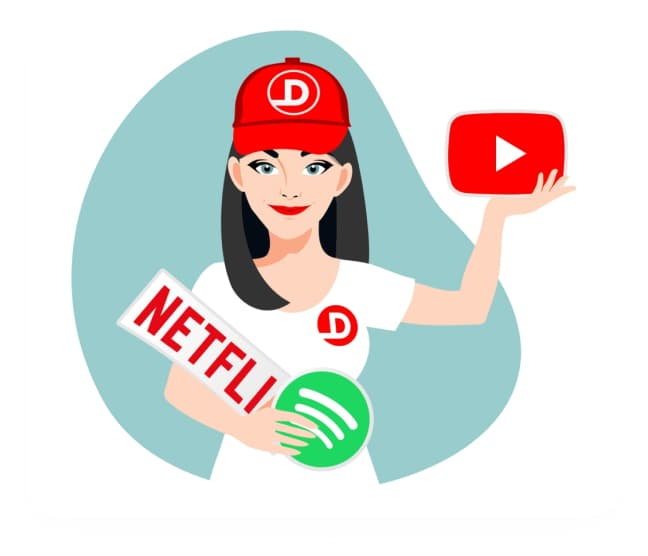
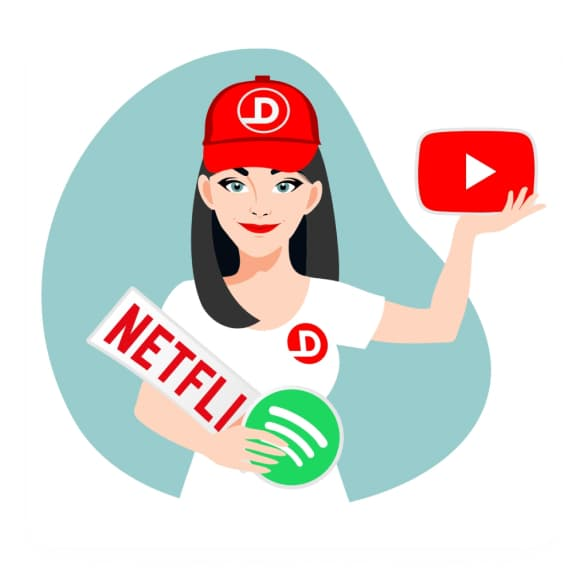
add apaptive for main

diff --git a/css/style.min.css b/css/style.min.css
@@ -1,1 +1,1 @@
-@import"https://fonts.googleapis.com/css2?family=IBM+Plex+Sans:wght@400;600&family=Inter:wght@400;500;600&family=Manrope:wght@600&family=Montserrat:wght@500;700&display=swap";@font-face{font-family:"gothampro_medium";src:local("gothampro_medium");src:local("gothampro-medium");src:url("./app/fonts/gothampro_medium.woff2") format("woff2");src:url("./app/fonts/gothampro_medium.woff") format("woff");font-style:normal}@font-face{font-family:"gothampro_black";src:local("gothampro_black");src:local("gothampro-black");src:url("./app/fonts/gothampro_black.woff2") format("woff2");src:url("./app/fonts/gothampro_black.woff") format("woff");font-style:normal}@font-face{font-family:"gothampro_bold";src:local("gothampro_bold");src:local("gothampro-bold");src:url("./../fonts/gothampro_bold.woff2") format("woff2");src:url("./../fonts/gothampro_bold.woff") format("woff");font-style:normal}@font-face{font-family:"gothampro_light";src:local("gothampro_light");src:local("gothampro-light");src:url("./../fonts/gothampro_light.woff2") format("woff2");src:url("./../fonts/gothampro_light.woff") format("woff");font-style:normal}@font-face{font-family:"gothampro";src:local("gothamPro");src:url("./../fonts/gothampro.woff2") format("woff2");src:url("./../fonts/gothampro.woff") format("woff");font-style:normal}*{-webkit-box-sizing:border-box;box-sizing:border-box}*:focus{outline:0}body{margin:0;padding:0;max-width:100%;overflow-x:hidden}img{max-width:100%;display:block}a{text-decoration:none;color:inherit;outline:0}fieldset,legend{padding:0;margin:0}ul{list-style:none;margin:0;padding:0}li{margin:0;padding:0}h1,h2,h3,h4,h5,h6{margin:0;font-size:inherit;font-weight:inherit;-webkit-margin-before:0;margin-block-start:0;-webkit-margin-after:0;margin-block-end:0}p{margin:0}dl,dd,dt{margin:0;padding:0}button,input,optgroup,select,textarea{color:inherit;font:inherit;margin:0;padding:0;outline:0;border:0;background-color:rgba(0,0,0,0);cursor:pointer}button,a{-webkit-user-select:none;-moz-user-select:none;-ms-user-select:none;user-select:none}.Xcontainer{margin:0 auto;padding:0 15px;max-width:1230px}.Xviewport{margin:0 auto;padding:0 0px;max-width:0px}html,body{max-width:100%;overflow-x:hidden;background-color:#ecf3fb;font-family:"gothampro",sans-serif;font-weight:400;font-size:16px;line-height:1.5;color:#000}.btn-blue{text-align:center;vertical-align:middle;font-weight:700;font-size:17px;line-height:1.2941176471;color:#fff;border:1px solid rgba(0,0,0,0);background-color:#1749b3;-webkit-transition:background-color,border,color .1s;-o-transition:background-color,border,color .1s;transition:background-color,border,color .1s}.btn-blue:hover{background-color:rgba(0,0,0,0);border:1px solid #1749b3;color:#000}.btn-blue:active{background-color:#4b84fd;color:#fff;border-color:rgba(0,0,0,0)}.text-link-black{-webkit-transition:color .1s;-o-transition:color .1s;transition:color .1s;color:#000}.text-link-black:hover{color:#1749b3}.text-link-black:active{color:#4b84fd}.text-link-blue{-webkit-transition:color .1s;-o-transition:color .1s;transition:color .1s;color:#1749b3}.text-link-blue:hover{color:#000}.text-link-blue:active{color:#4b84fd}.icon{-webkit-transition:fill .1s;-o-transition:fill .1s;transition:fill .1s}.icon:hover svg path{fill:#1749b3}.icon:active svg path{fill:#4b84fd}h1{font-size:36px;font-family:"gothampro_bold",sans-serif;font-weight:700;line-height:140%;color:#fff}h2{font-family:"gothampro_bold",sans-serif;font-size:32px;line-height:140%;color:#171717}.header{background-color:#fff;padding-top:2px;padding-bottom:3px;position:relative;z-index:2}.header-container{display:-ms-grid;display:grid;-ms-grid-columns:minmax(-webkit-max-content, 325px) minmax(-webkit-max-content, 521px) minmax(-webkit-max-content, 79px) minmax(-webkit-max-content, 59px) -webkit-max-content;-ms-grid-columns:minmax(max-content, 325px) minmax(max-content, 521px) minmax(max-content, 79px) minmax(max-content, 59px) max-content;grid-template-columns:minmax(-webkit-max-content, 325px) minmax(-webkit-max-content, 521px) minmax(-webkit-max-content, 79px) minmax(-webkit-max-content, 59px) -webkit-max-content;grid-template-columns:minmax(max-content, 325px) minmax(max-content, 521px) minmax(max-content, 79px) minmax(max-content, 59px) max-content;-webkit-box-align:center;-ms-flex-align:center;align-items:center;gap:20px}.header-logo{display:-webkit-box;display:-ms-flexbox;display:flex;-webkit-box-align:center;-ms-flex-align:center;align-items:center;-ms-flex-negative:0;flex-shrink:0}.header-logo__title{font-family:"Manrope",sans-serif;color:#171717;font-weight:600;font-size:16px;line-height:1.3125;margin-left:8px}.header-nav{display:-webkit-box;display:-ms-flexbox;display:flex;-webkit-box-align:center;-ms-flex-align:center;align-items:center}.header-nav__menu{position:relative;display:-ms-grid;display:grid;-ms-grid-columns:minmax(-webkit-max-content, 157px) minmax(-webkit-max-content, 60px) minmax(-webkit-max-content, 93px) minmax(-webkit-max-content, 75px);-ms-grid-columns:minmax(max-content, 157px) minmax(max-content, 60px) minmax(max-content, 93px) minmax(max-content, 75px);grid-template-columns:minmax(-webkit-max-content, 157px) minmax(-webkit-max-content, 60px) minmax(-webkit-max-content, 93px) minmax(-webkit-max-content, 75px);grid-template-columns:minmax(max-content, 157px) minmax(max-content, 60px) minmax(max-content, 93px) minmax(max-content, 75px);-ms-flex-negative:1;flex-shrink:1;-webkit-box-align:center;-ms-flex-align:center;align-items:center;gap:20px}.header-nav__menu-item{text-align:left;position:relative}.header-nav__menu-item-list{padding-right:25px}.header-nav__menu-icon{padding-left:15px;position:absolute;display:inline-block;top:-3px;-webkit-transition:-webkit-transform .1s;transition:-webkit-transform .1s;-o-transition:transform .1s;transition:transform .1s;transition:transform .1s, -webkit-transform .1s}.header-nav__menu-icon--reverse svg{-webkit-transform:rotate(180deg);-ms-transform:rotate(180deg);transform:rotate(180deg)}.header-nav__subscription-list{padding:27px 24px 24px;position:absolute;top:47px;left:-23px;-webkit-box-shadow:0px 20px 48px rgba(177,177,177,.4);box-shadow:0px 20px 48px rgba(177,177,177,.4);border-radius:16px;background-color:#fff;visibility:hidden;opacity:0;-webkit-transition:visibility,opacity .1s;-o-transition:visibility,opacity .1s;transition:visibility,opacity .1s}.header-nav__subscription-list--visible{visibility:visible;opacity:1}.header-nav__subscription-item{font-family:"gothampro",sans-serif;font-weight:600;font-size:17px;line-height:150%;letter-spacing:.01em}.header-nav__subscription-item:not(:last-child){margin-bottom:20px}.header-nav__socials{display:-webkit-box;display:-ms-flexbox;display:flex;-webkit-box-align:center;-ms-flex-align:center;align-items:center;gap:15px}.header-nav__socials-item{display:-webkit-box;display:-ms-flexbox;display:flex;-webkit-box-align:center;-ms-flex-align:center;align-items:center}.header-nav__lang{padding-right:25px;position:relative}.header-nav__lang-icon{padding-left:7px;position:absolute;display:inline-block;top:-4px}.header-nav__lang-icon--reverse svg{-webkit-transform:rotate(180deg);-ms-transform:rotate(180deg);transform:rotate(180deg)}.header-nav__lang-list{position:absolute;padding:27px 24px 24px;background-color:#fff;top:50px;-webkit-box-shadow:0px 20px 48px rgba(177,177,177,.4);box-shadow:0px 20px 48px rgba(177,177,177,.4);border-radius:16px;visibility:hidden;opacity:0;-webkit-transition:visibility,opacity .1s;-o-transition:visibility,opacity .1s;transition:visibility,opacity .1s}.header-nav__lang-list--visible{visibility:visible;opacity:1}.header-nav__lang-list-item{font-family:"gothampro",sans-serif;font-weight:600;font-size:17px;line-height:150%;letter-spacing:.01em}.header-nav__lang-list-item:not(:last-child){margin-bottom:20px}.header-nav__btn{width:8em;height:2.35em;border-radius:.7em}.header__login{position:fixed;width:100%;height:100%;background:rgba(23,73,179,.1);-webkit-backdrop-filter:blur(5px);backdrop-filter:blur(5px);top:0;left:0;opacity:0;visibility:hidden}.header__login--visible{visibility:visible;opacity:1}.header__login-wrapper{display:-webkit-box;display:-ms-flexbox;display:flex;-webkit-box-pack:center;-ms-flex-pack:center;justify-content:center;padding-top:33px}.header__login-content{max-width:540px;padding:40px;background-color:#fff;border-radius:32px;-webkit-box-flex:1;-ms-flex-positive:1;flex-grow:1}.header-login-input-img{position:absolute}.header-login__top{display:-webkit-box;display:-ms-flexbox;display:flex;-webkit-box-align:center;-ms-flex-align:center;align-items:center;-webkit-box-pack:justify;-ms-flex-pack:justify;justify-content:space-between;margin-bottom:12px}.header-login__top-btn{width:40px;height:40px;background:rgba(23,23,23,.1);border-radius:100%;display:-webkit-box;display:-ms-flexbox;display:flex;-webkit-box-align:center;-ms-flex-align:center;align-items:center;-webkit-box-pack:center;-ms-flex-pack:center;justify-content:center;-webkit-transition:background-color,fill,.1s;-o-transition:background-color,fill,.1s;transition:background-color,fill,.1s}.header-login__top-btn:hover{background-color:#1749b3}.header-login__top-btn:hover svg path{fill:#fff}.header-login__top-btn:active{background-color:rgba(75,132,253,.1)}.header-login__top-btn:active svg path{fill:#3a3a3c}.header-login__new-user{margin-bottom:40px}.header-login__new-user-link{color:#1749b3;text-decoration:underline}.header-login__form-bottom{display:-webkit-box;display:-ms-flexbox;display:flex;-webkit-box-align:center;-ms-flex-align:center;align-items:center;-webkit-box-pack:justify;-ms-flex-pack:justify;justify-content:space-between;margin-bottom:40px}.header-login__form-btn{padding:15px 46px;border-radius:12px}.header-login__label{position:relative}.header-login__input{width:100%;padding:16px 24px;background:#f1f4f8;border-radius:12px;margin-top:9px;display:block;margin-bottom:32px;border:1px solid rgba(0,0,0,0);color:#070033}.header-login__input:hover{cursor:text;border:1px solid #838099}.header-login__input:focus::-webkit-input-placeholder{color:rgba(0,0,0,0)}.header-login__input:focus::-moz-placeholder{color:rgba(0,0,0,0)}.header-login__input:focus:-ms-input-placeholder{color:rgba(0,0,0,0)}.header-login__input:focus::-ms-input-placeholder{color:rgba(0,0,0,0)}.header-login__input:focus::placeholder{color:rgba(0,0,0,0)}.header-login__input:focus{border:1px solid #cecbdf}.header-login__input:invalid{border:1px solid rgba(0,0,0,0);background-image:url(./../img/alert.svg);background-repeat:no-repeat;background-position:center right 25px}.header-login__input:invalid:focus{border:1px solid #fd4646;background-image:url(./../img/alert.svg);background-repeat:no-repeat;background-position:center right 25px}.header-login__signin{display:-webkit-box;display:-ms-flexbox;display:flex;-webkit-box-pack:center;-ms-flex-pack:center;justify-content:center}.header-login__signin-text{font-size:16px;line-height:1.5;color:#909090;position:relative;margin-bottom:24px}.header-login__signin-text::before{content:"";position:absolute;width:160px;height:1px;background-color:#dfdfdf;top:50%;left:-172px}.header-login__signin-text::after{content:"";position:absolute;width:160px;height:1px;background-color:#dfdfdf;top:50%;right:-172px}.header-login__signin-list{display:-ms-grid;display:grid;-ms-grid-columns:147px 147px 147px;grid-template-columns:147px 147px 147px;gap:9px;justify-items:center;-webkit-box-align:center;-ms-flex-align:center;align-items:center;margin-bottom:48px}.header-login__signin-item{display:-webkit-box;display:-ms-flexbox;display:flex;-webkit-box-align:center;-ms-flex-align:center;align-items:center;-webkit-box-pack:center;-ms-flex-pack:center;justify-content:center;width:100%;height:70px;border:1px solid #dfdfdf;border-radius:12px;-webkit-transition:border,background-color .2s;-o-transition:border,background-color .2s;transition:border,background-color .2s}.header-login__signin-item:hover{border:1px solid rgba(0,0,0,0);background-color:#ecf3fb}.header-login__signin-item:active{border:1px solid #dfdfdf;background-color:rgba(0,0,0,0)}.header-login__disclaimer{color:#9c99ad}.main{padding:60px 0;position:relative;z-index:1}.main__content{display:-webkit-box;display:-ms-flexbox;display:flex;-webkit-box-align:stretch;-ms-flex-align:stretch;align-items:stretch;gap:16px}.main__text-block{border-radius:32px;background-color:#1749b3;padding:111px 60px 113px;width:50%;min-height:100%}.main__text-title{margin-bottom:25px}.main__text-text{font-size:16px;line-height:150%;color:#fff;margin-bottom:48px}.main__text-btn{display:block;max-width:-webkit-max-content;max-width:-moz-max-content;max-width:max-content;background-color:#fff;color:#171717;border-radius:16px;font-size:17px;line-height:130%;font-weight:700;padding:15px 57px;border:1px solid rgba(0,0,0,0);-webkit-transition:background-color,border,color .1s;-o-transition:background-color,border,color .1s;transition:background-color,border,color .1s}.main__text-btn:hover{background-color:rgba(0,0,0,0);border:1px solid #fff;color:#fff}.main__text-btn:active{color:#171717;background-color:rgba(255,255,255,.8);border:1px solid rgba(255,255,255,.8)}.main__picture-block{border-radius:32px;width:50%;position:relative;overflow:hidden}.main__picture-img{border-radius:32px;width:100%;-webkit-box-shadow:0px 12px 28px rgba(244,245,245,.2);box-shadow:0px 12px 28px rgba(244,245,245,.2);position:absolute;top:9px;-webkit-transform:scale(1.1);-ms-transform:scale(1.1);transform:scale(1.1)}
+@import"https://fonts.googleapis.com/css2?family=IBM+Plex+Sans:wght@400;600&family=Inter:wght@400;500;600&family=Manrope:wght@600&family=Montserrat:wght@500;700&display=swap";@font-face{font-family:"gothampro_medium";src:local("gothampro_medium");src:local("gothampro-medium");src:url("./app/fonts/gothampro_medium.woff2") format("woff2");src:url("./app/fonts/gothampro_medium.woff") format("woff");font-style:normal}@font-face{font-family:"gothampro_black";src:local("gothampro_black");src:local("gothampro-black");src:url("./app/fonts/gothampro_black.woff2") format("woff2");src:url("./app/fonts/gothampro_black.woff") format("woff");font-style:normal}@font-face{font-family:"gothampro_bold";src:local("gothampro_bold");src:local("gothampro-bold");src:url("./../fonts/gothampro_bold.woff2") format("woff2");src:url("./../fonts/gothampro_bold.woff") format("woff");font-style:normal}@font-face{font-family:"gothampro_light";src:local("gothampro_light");src:local("gothampro-light");src:url("./../fonts/gothampro_light.woff2") format("woff2");src:url("./../fonts/gothampro_light.woff") format("woff");font-style:normal}@font-face{font-family:"gothampro";src:local("gothamPro");src:url("./../fonts/gothampro.woff2") format("woff2");src:url("./../fonts/gothampro.woff") format("woff");font-style:normal}*{-webkit-box-sizing:border-box;box-sizing:border-box}*:focus{outline:0}body{margin:0;padding:0;max-width:100%;overflow-x:hidden}img{max-width:100%;display:block}a{text-decoration:none;color:inherit;outline:0}fieldset,legend{padding:0;margin:0}ul{list-style:none;margin:0;padding:0}li{margin:0;padding:0}h1,h2,h3,h4,h5,h6{margin:0;font-size:inherit;font-weight:inherit;-webkit-margin-before:0;margin-block-start:0;-webkit-margin-after:0;margin-block-end:0}p{margin:0}dl,dd,dt{margin:0;padding:0}button,input,optgroup,select,textarea{color:inherit;font:inherit;margin:0;padding:0;outline:0;border:0;background-color:rgba(0,0,0,0);cursor:pointer}button,a{-webkit-user-select:none;-moz-user-select:none;-ms-user-select:none;user-select:none}.Xcontainer{margin:0 auto;padding:0 15px;max-width:1230px}.Xviewport{margin:0 auto;padding:0 0px;max-width:1440px}html,body{max-width:100%;overflow-x:hidden;background-color:#ecf3fb;font-family:"gothampro",sans-serif;font-weight:400;font-size:16px;line-height:1.5;color:#000}.btn-blue{text-align:center;vertical-align:middle;font-weight:700;font-size:17px;line-height:1.2941176471;color:#fff;border:1px solid rgba(0,0,0,0);background-color:#1749b3;-webkit-transition:background-color,border,color .1s;-o-transition:background-color,border,color .1s;transition:background-color,border,color .1s}.btn-blue:hover{background-color:rgba(0,0,0,0);border:1px solid #1749b3;color:#000}.btn-blue:active{background-color:#4b84fd;color:#fff;border-color:rgba(0,0,0,0)}.text-link-black{-webkit-transition:color .1s;-o-transition:color .1s;transition:color .1s;color:#000}.text-link-black:hover{color:#1749b3}.text-link-black:active{color:#4b84fd}.text-link-blue{-webkit-transition:color .1s;-o-transition:color .1s;transition:color .1s;color:#1749b3}.text-link-blue:hover{color:#000}.text-link-blue:active{color:#4b84fd}.icon{-webkit-transition:fill .1s;-o-transition:fill .1s;transition:fill .1s}.icon:hover svg path{fill:#1749b3}.icon:active svg path{fill:#4b84fd}h1{font-size:36px;font-family:"gothampro_bold",sans-serif;font-weight:700;line-height:140%;color:#fff}h2{font-family:"gothampro_bold",sans-serif;font-size:32px;line-height:140%;color:#171717}.header{background-color:#fff;padding-top:2px;padding-bottom:3px;position:relative;z-index:2}.header-container{display:-ms-grid;display:grid;-ms-grid-columns:minmax(-webkit-max-content, 325px) minmax(-webkit-max-content, 521px) minmax(-webkit-max-content, 79px) minmax(-webkit-max-content, 59px) -webkit-max-content;-ms-grid-columns:minmax(max-content, 325px) minmax(max-content, 521px) minmax(max-content, 79px) minmax(max-content, 59px) max-content;grid-template-columns:minmax(-webkit-max-content, 325px) minmax(-webkit-max-content, 521px) minmax(-webkit-max-content, 79px) minmax(-webkit-max-content, 59px) -webkit-max-content;grid-template-columns:minmax(max-content, 325px) minmax(max-content, 521px) minmax(max-content, 79px) minmax(max-content, 59px) max-content;-webkit-box-align:center;-ms-flex-align:center;align-items:center;gap:20px}.header-logo{display:-webkit-box;display:-ms-flexbox;display:flex;-webkit-box-align:center;-ms-flex-align:center;align-items:center;-ms-flex-negative:0;flex-shrink:0}.header-logo__title{font-family:"Manrope",sans-serif;color:#171717;font-weight:600;font-size:16px;line-height:1.3125;margin-left:8px}.header-nav{display:-webkit-box;display:-ms-flexbox;display:flex;-webkit-box-align:center;-ms-flex-align:center;align-items:center}.header-nav__menu{position:relative;display:-ms-grid;display:grid;-ms-grid-columns:minmax(-webkit-max-content, 157px) minmax(-webkit-max-content, 60px) minmax(-webkit-max-content, 93px) minmax(-webkit-max-content, 75px);-ms-grid-columns:minmax(max-content, 157px) minmax(max-content, 60px) minmax(max-content, 93px) minmax(max-content, 75px);grid-template-columns:minmax(-webkit-max-content, 157px) minmax(-webkit-max-content, 60px) minmax(-webkit-max-content, 93px) minmax(-webkit-max-content, 75px);grid-template-columns:minmax(max-content, 157px) minmax(max-content, 60px) minmax(max-content, 93px) minmax(max-content, 75px);-ms-flex-negative:1;flex-shrink:1;-webkit-box-align:center;-ms-flex-align:center;align-items:center;gap:20px}.header-nav__menu-item{text-align:left;position:relative}.header-nav__menu-item-list{padding-right:25px}.header-nav__menu-icon{padding-left:15px;position:absolute;display:inline-block;top:-3px;-webkit-transition:-webkit-transform .1s;transition:-webkit-transform .1s;-o-transition:transform .1s;transition:transform .1s;transition:transform .1s, -webkit-transform .1s}.header-nav__menu-icon--reverse svg{-webkit-transform:rotate(180deg);-ms-transform:rotate(180deg);transform:rotate(180deg)}.header-nav__subscription-list{padding:27px 24px 24px;position:absolute;top:47px;left:-23px;-webkit-box-shadow:0px 20px 48px rgba(177,177,177,.4);box-shadow:0px 20px 48px rgba(177,177,177,.4);border-radius:16px;background-color:#fff;visibility:hidden;opacity:0;-webkit-transition:visibility,opacity .1s;-o-transition:visibility,opacity .1s;transition:visibility,opacity .1s}.header-nav__subscription-list--visible{visibility:visible;opacity:1}.header-nav__subscription-item{font-family:"gothampro",sans-serif;font-weight:600;font-size:17px;line-height:150%;letter-spacing:.01em}.header-nav__subscription-item:not(:last-child){margin-bottom:20px}.header-nav__socials{display:-webkit-box;display:-ms-flexbox;display:flex;-webkit-box-align:center;-ms-flex-align:center;align-items:center;gap:15px}.header-nav__socials-item{display:-webkit-box;display:-ms-flexbox;display:flex;-webkit-box-align:center;-ms-flex-align:center;align-items:center}.header-nav__lang{padding-right:25px;position:relative}.header-nav__lang-icon{padding-left:7px;position:absolute;display:inline-block;top:-4px}.header-nav__lang-icon--reverse svg{-webkit-transform:rotate(180deg);-ms-transform:rotate(180deg);transform:rotate(180deg)}.header-nav__lang-list{position:absolute;padding:27px 24px 24px;background-color:#fff;top:50px;-webkit-box-shadow:0px 20px 48px rgba(177,177,177,.4);box-shadow:0px 20px 48px rgba(177,177,177,.4);border-radius:16px;visibility:hidden;opacity:0;-webkit-transition:visibility,opacity .1s;-o-transition:visibility,opacity .1s;transition:visibility,opacity .1s}.header-nav__lang-list--visible{visibility:visible;opacity:1}.header-nav__lang-list-item{font-family:"gothampro",sans-serif;font-weight:600;font-size:17px;line-height:150%;letter-spacing:.01em}.header-nav__lang-list-item:not(:last-child){margin-bottom:20px}.header-nav__btn{width:8em;height:2.35em;border-radius:.7em}.header__login{position:fixed;width:100%;height:100%;background:rgba(23,73,179,.1);-webkit-backdrop-filter:blur(5px);backdrop-filter:blur(5px);top:0;left:0;opacity:0;visibility:hidden}.header__login--visible{visibility:visible;opacity:1}.header__login-wrapper{display:-webkit-box;display:-ms-flexbox;display:flex;-webkit-box-pack:center;-ms-flex-pack:center;justify-content:center;padding-top:33px}.header__login-content{max-width:540px;padding:40px;background-color:#fff;border-radius:32px;-webkit-box-flex:1;-ms-flex-positive:1;flex-grow:1}.header-login-input-img{position:absolute}.header-login__top{display:-webkit-box;display:-ms-flexbox;display:flex;-webkit-box-align:center;-ms-flex-align:center;align-items:center;-webkit-box-pack:justify;-ms-flex-pack:justify;justify-content:space-between;margin-bottom:12px}.header-login__top-btn{width:40px;height:40px;background:rgba(23,23,23,.1);border-radius:100%;display:-webkit-box;display:-ms-flexbox;display:flex;-webkit-box-align:center;-ms-flex-align:center;align-items:center;-webkit-box-pack:center;-ms-flex-pack:center;justify-content:center;-webkit-transition:background-color,fill,.1s;-o-transition:background-color,fill,.1s;transition:background-color,fill,.1s}.header-login__top-btn:hover{background-color:#1749b3}.header-login__top-btn:hover svg path{fill:#fff}.header-login__top-btn:active{background-color:rgba(75,132,253,.1)}.header-login__top-btn:active svg path{fill:#3a3a3c}.header-login__new-user{margin-bottom:40px}.header-login__new-user-link{color:#1749b3;text-decoration:underline}.header-login__form-bottom{display:-webkit-box;display:-ms-flexbox;display:flex;-webkit-box-align:center;-ms-flex-align:center;align-items:center;-webkit-box-pack:justify;-ms-flex-pack:justify;justify-content:space-between;margin-bottom:40px}.header-login__form-btn{padding:15px 46px;border-radius:12px}.header-login__label{position:relative}.header-login__input{width:100%;padding:16px 24px;background:#f1f4f8;border-radius:12px;margin-top:9px;display:block;margin-bottom:32px;border:1px solid rgba(0,0,0,0);color:#070033}.header-login__input:hover{cursor:text;border:1px solid #838099}.header-login__input:focus::-webkit-input-placeholder{color:rgba(0,0,0,0)}.header-login__input:focus::-moz-placeholder{color:rgba(0,0,0,0)}.header-login__input:focus:-ms-input-placeholder{color:rgba(0,0,0,0)}.header-login__input:focus::-ms-input-placeholder{color:rgba(0,0,0,0)}.header-login__input:focus::placeholder{color:rgba(0,0,0,0)}.header-login__input:focus{border:1px solid #cecbdf}.header-login__input:invalid{border:1px solid rgba(0,0,0,0);background-image:url(./../img/alert.svg);background-repeat:no-repeat;background-position:center right 25px}.header-login__input:invalid:focus{border:1px solid #fd4646;background-image:url(./../img/alert.svg);background-repeat:no-repeat;background-position:center right 25px}.header-login__signin{display:-webkit-box;display:-ms-flexbox;display:flex;-webkit-box-pack:center;-ms-flex-pack:center;justify-content:center}.header-login__signin-text{font-size:16px;line-height:1.5;color:#909090;position:relative;margin-bottom:24px}.header-login__signin-text::before{content:"";position:absolute;width:160px;height:1px;background-color:#dfdfdf;top:50%;left:-172px}.header-login__signin-text::after{content:"";position:absolute;width:160px;height:1px;background-color:#dfdfdf;top:50%;right:-172px}.header-login__signin-list{display:-ms-grid;display:grid;-ms-grid-columns:147px 147px 147px;grid-template-columns:147px 147px 147px;gap:9px;justify-items:center;-webkit-box-align:center;-ms-flex-align:center;align-items:center;margin-bottom:48px}.header-login__signin-item{display:-webkit-box;display:-ms-flexbox;display:flex;-webkit-box-align:center;-ms-flex-align:center;align-items:center;-webkit-box-pack:center;-ms-flex-pack:center;justify-content:center;width:100%;height:70px;border:1px solid #dfdfdf;border-radius:12px;-webkit-transition:border,background-color .2s;-o-transition:border,background-color .2s;transition:border,background-color .2s}.header-login__signin-item:hover{border:1px solid rgba(0,0,0,0);background-color:#ecf3fb}.header-login__signin-item:active{border:1px solid #dfdfdf;background-color:rgba(0,0,0,0)}.header-login__disclaimer{color:#9c99ad}.main{padding:60px 0;position:relative;z-index:1}.main__content{display:-webkit-box;display:-ms-flexbox;display:flex;-webkit-box-pack:justify;-ms-flex-pack:justify;justify-content:space-between;gap:16px}.main__text-block{border-radius:32px;background-color:#1749b3;padding:111px 60px 113px;width:50%}.main__text-title{margin-bottom:25px}.main__text-text{font-size:16px;line-height:150%;color:#fff;margin-bottom:48px}.main__text-btn{display:block;max-width:-webkit-max-content;max-width:-moz-max-content;max-width:max-content;background-color:#fff;color:#171717;border-radius:16px;font-size:17px;line-height:130%;font-weight:700;padding:15px 57px;border:1px solid rgba(0,0,0,0);-webkit-transition:background-color,border,color .1s;-o-transition:background-color,border,color .1s;transition:background-color,border,color .1s}.main__text-btn:hover{background-color:rgba(0,0,0,0);border:1px solid #fff;color:#fff}.main__text-btn:active{color:#171717;background-color:rgba(255,255,255,.8);border:1px solid rgba(255,255,255,.8)}.main__picture-block{border-radius:32px;overflow:hidden;background-color:#fff;-webkit-box-shadow:0px 12px 28px rgba(244,245,245,.2);box-shadow:0px 12px 28px rgba(244,245,245,.2);display:-webkit-box;display:-ms-flexbox;display:flex;-webkit-box-pack:center;-ms-flex-pack:center;justify-content:center;width:50%;height:100%}.main__picture-img{-o-object-fit:contain;object-fit:contain;height:500px}@media(max-width: 1200px){.Xcontainer{padding-left:15px;padding-right:15px}}@media(max-width: 1200px)and (max-width: 1200px){.Xcontainer{padding-left:calc(32px + -17*(100vw - 768px)/432)}}@media(max-width: 1200px)and (max-width: 1200px){.Xcontainer{padding-right:calc(32px + -17*(100vw - 768px)/432)}}@media(max-width: 1200px){.main{padding-top:60px}}@media(max-width: 1200px)and (max-width: 1200px){.main{padding-top:calc(46px + 14*(100vw - 768px)/432)}}@media(max-width: 1200px){.main__text-block{padding-top:111px;padding-bottom:113px;padding-left:60px;padding-right:60px;border-radius:32px}}@media(max-width: 1200px)and (max-width: 1200px){.main__text-block{padding-top:calc(21px + 90*(100vw - 768px)/432)}}@media(max-width: 1200px)and (max-width: 1200px){.main__text-block{padding-bottom:calc(24px + 89*(100vw - 768px)/432)}}@media(max-width: 1200px)and (max-width: 1200px){.main__text-block{padding-left:calc(20px + 40*(100vw - 768px)/432)}}@media(max-width: 1200px)and (max-width: 1200px){.main__text-block{padding-right:calc(20px + 40*(100vw - 768px)/432)}}@media(max-width: 1200px)and (max-width: 1200px){.main__text-block{border-radius:calc(24px + 8*(100vw - 768px)/432)}}@media(max-width: 1200px){.main__text-title{font-size:36px;margin-bottom:25px}}@media(max-width: 1200px)and (max-width: 1200px){.main__text-title{font-size:calc(28px + 8*(100vw - 768px)/432)}}@media(max-width: 1200px)and (max-width: 1200px){.main__text-title{margin-bottom:calc(17px + 8*(100vw - 768px)/432)}}@media(max-width: 1200px){.main__text-text{margin-bottom:48px}}@media(max-width: 1200px)and (max-width: 1200px){.main__text-text{margin-bottom:calc(31px + 17*(100vw - 768px)/432)}}@media(max-width: 1200px){.main__text-btn{font-size:17px;padding-top:15px;padding-bottom:15px;padding-left:57px;padding-right:57px}}@media(max-width: 1200px)and (max-width: 1200px){.main__text-btn{font-size:calc(15px + 2*(100vw - 768px)/432)}}@media(max-width: 1200px)and (max-width: 1200px){.main__text-btn{padding-top:calc(13px + 2*(100vw - 768px)/432)}}@media(max-width: 1200px)and (max-width: 1200px){.main__text-btn{padding-bottom:calc(13px + 2*(100vw - 768px)/432)}}@media(max-width: 1200px)and (max-width: 1200px){.main__text-btn{padding-left:calc(62px + -5*(100vw - 768px)/432)}}@media(max-width: 1200px)and (max-width: 1200px){.main__text-btn{padding-right:calc(62px + -5*(100vw - 768px)/432)}}@media(max-width: 1200px){.main__picture-block{border-radius:32px}}@media(max-width: 1200px)and (max-width: 1200px){.main__picture-block{border-radius:calc(24px + 8*(100vw - 768px)/432)}}@media(max-width: 1200px){.main__picture-img{height:500px}}@media(max-width: 1200px)and (max-width: 1200px){.main__picture-img{height:calc(290px + 210*(100vw - 768px)/432)}}
